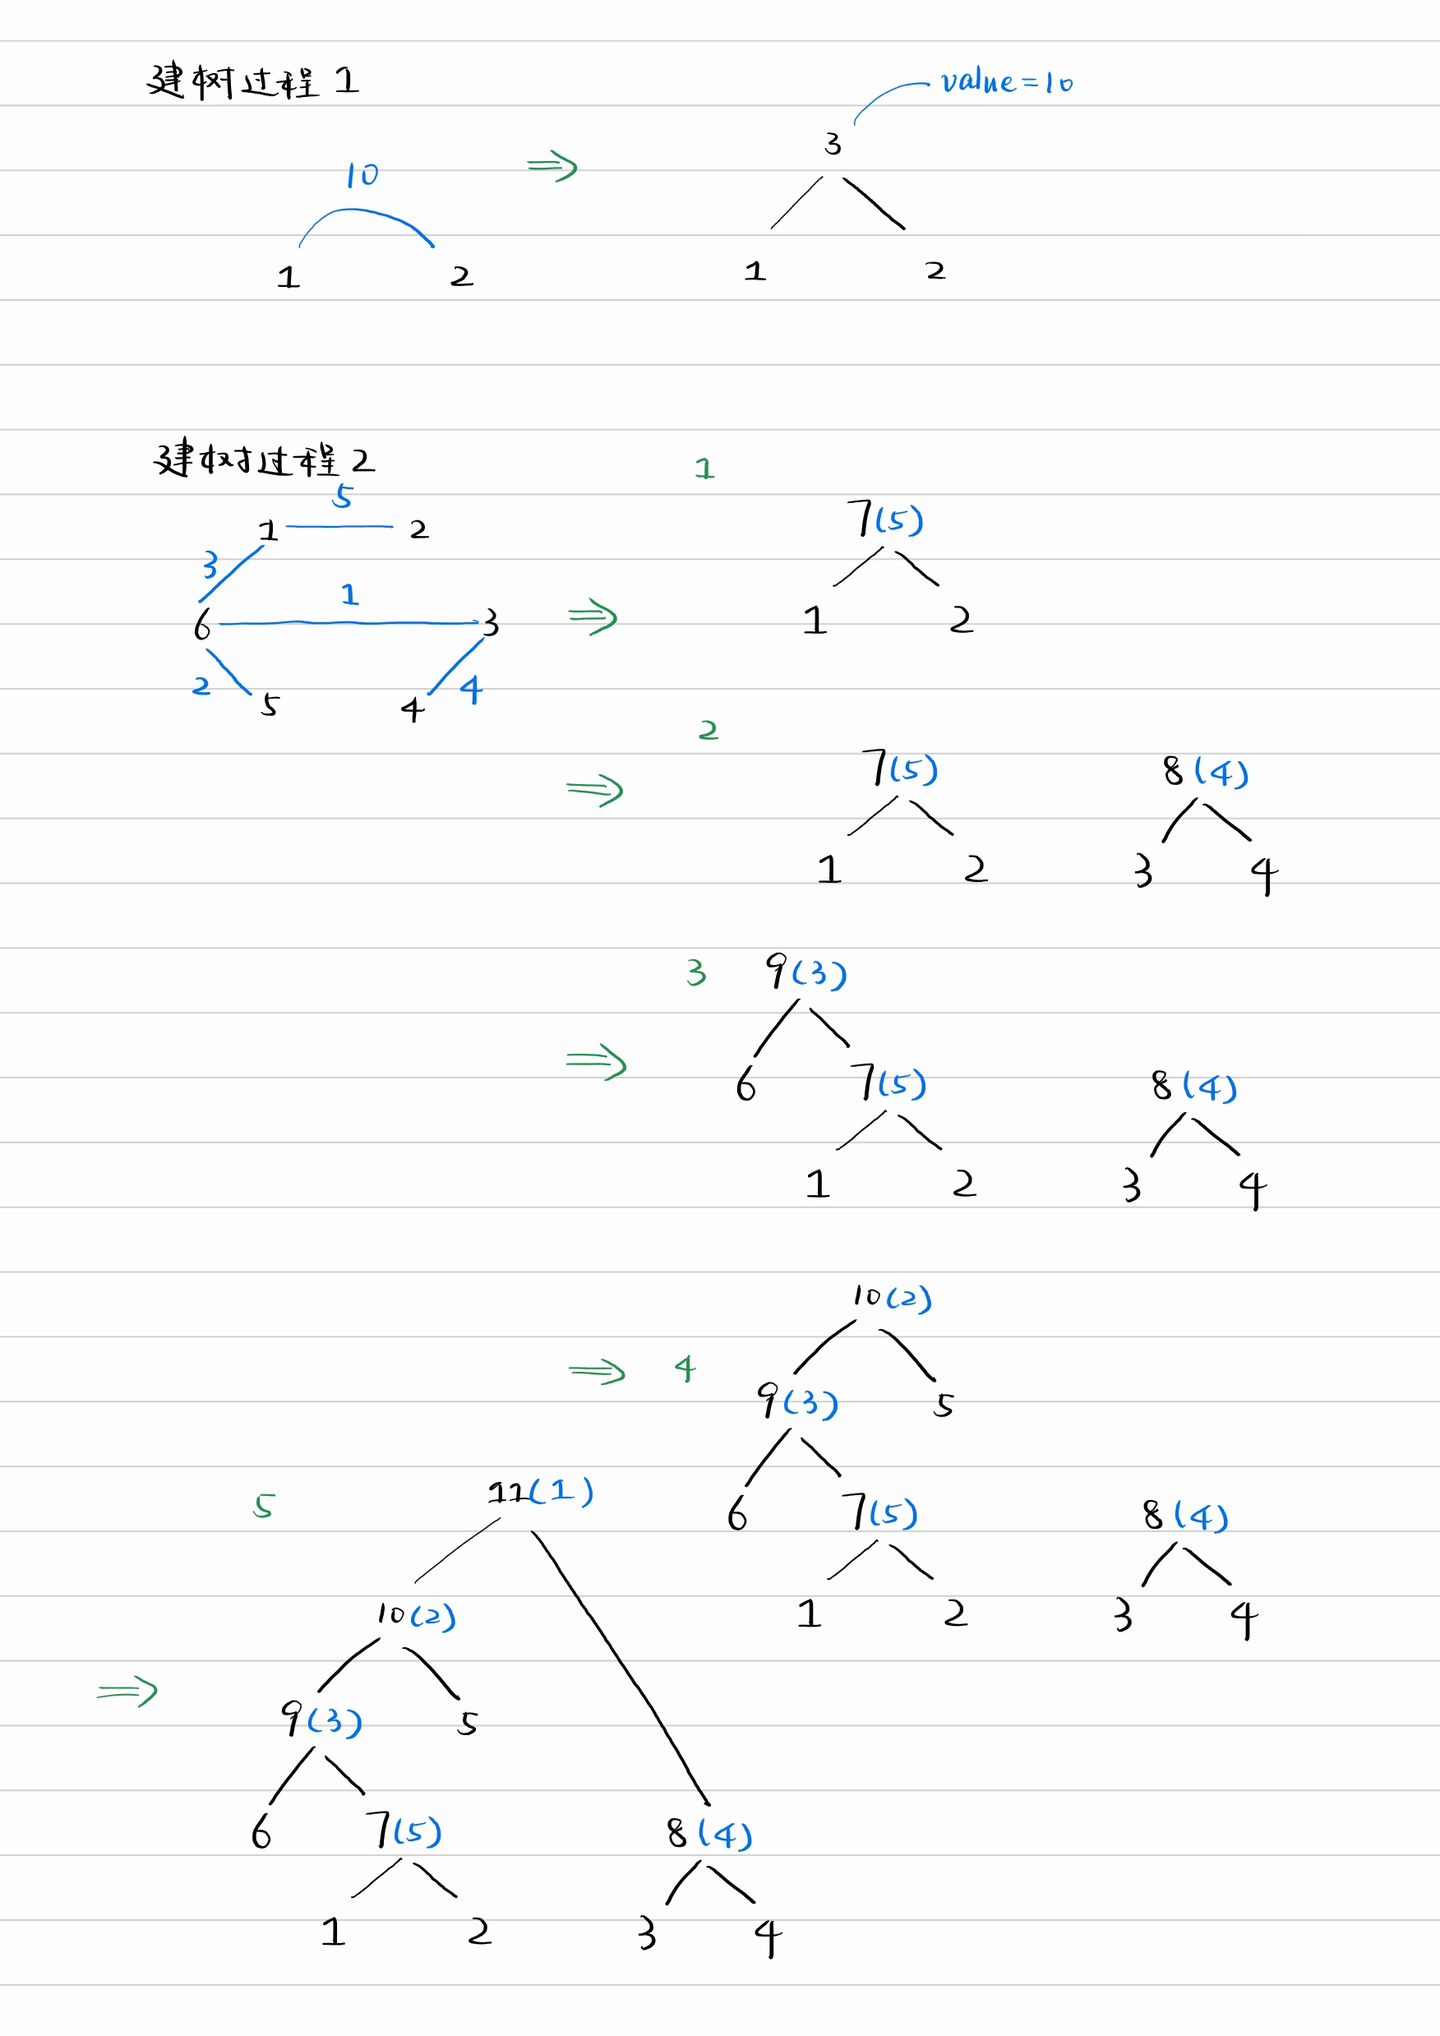
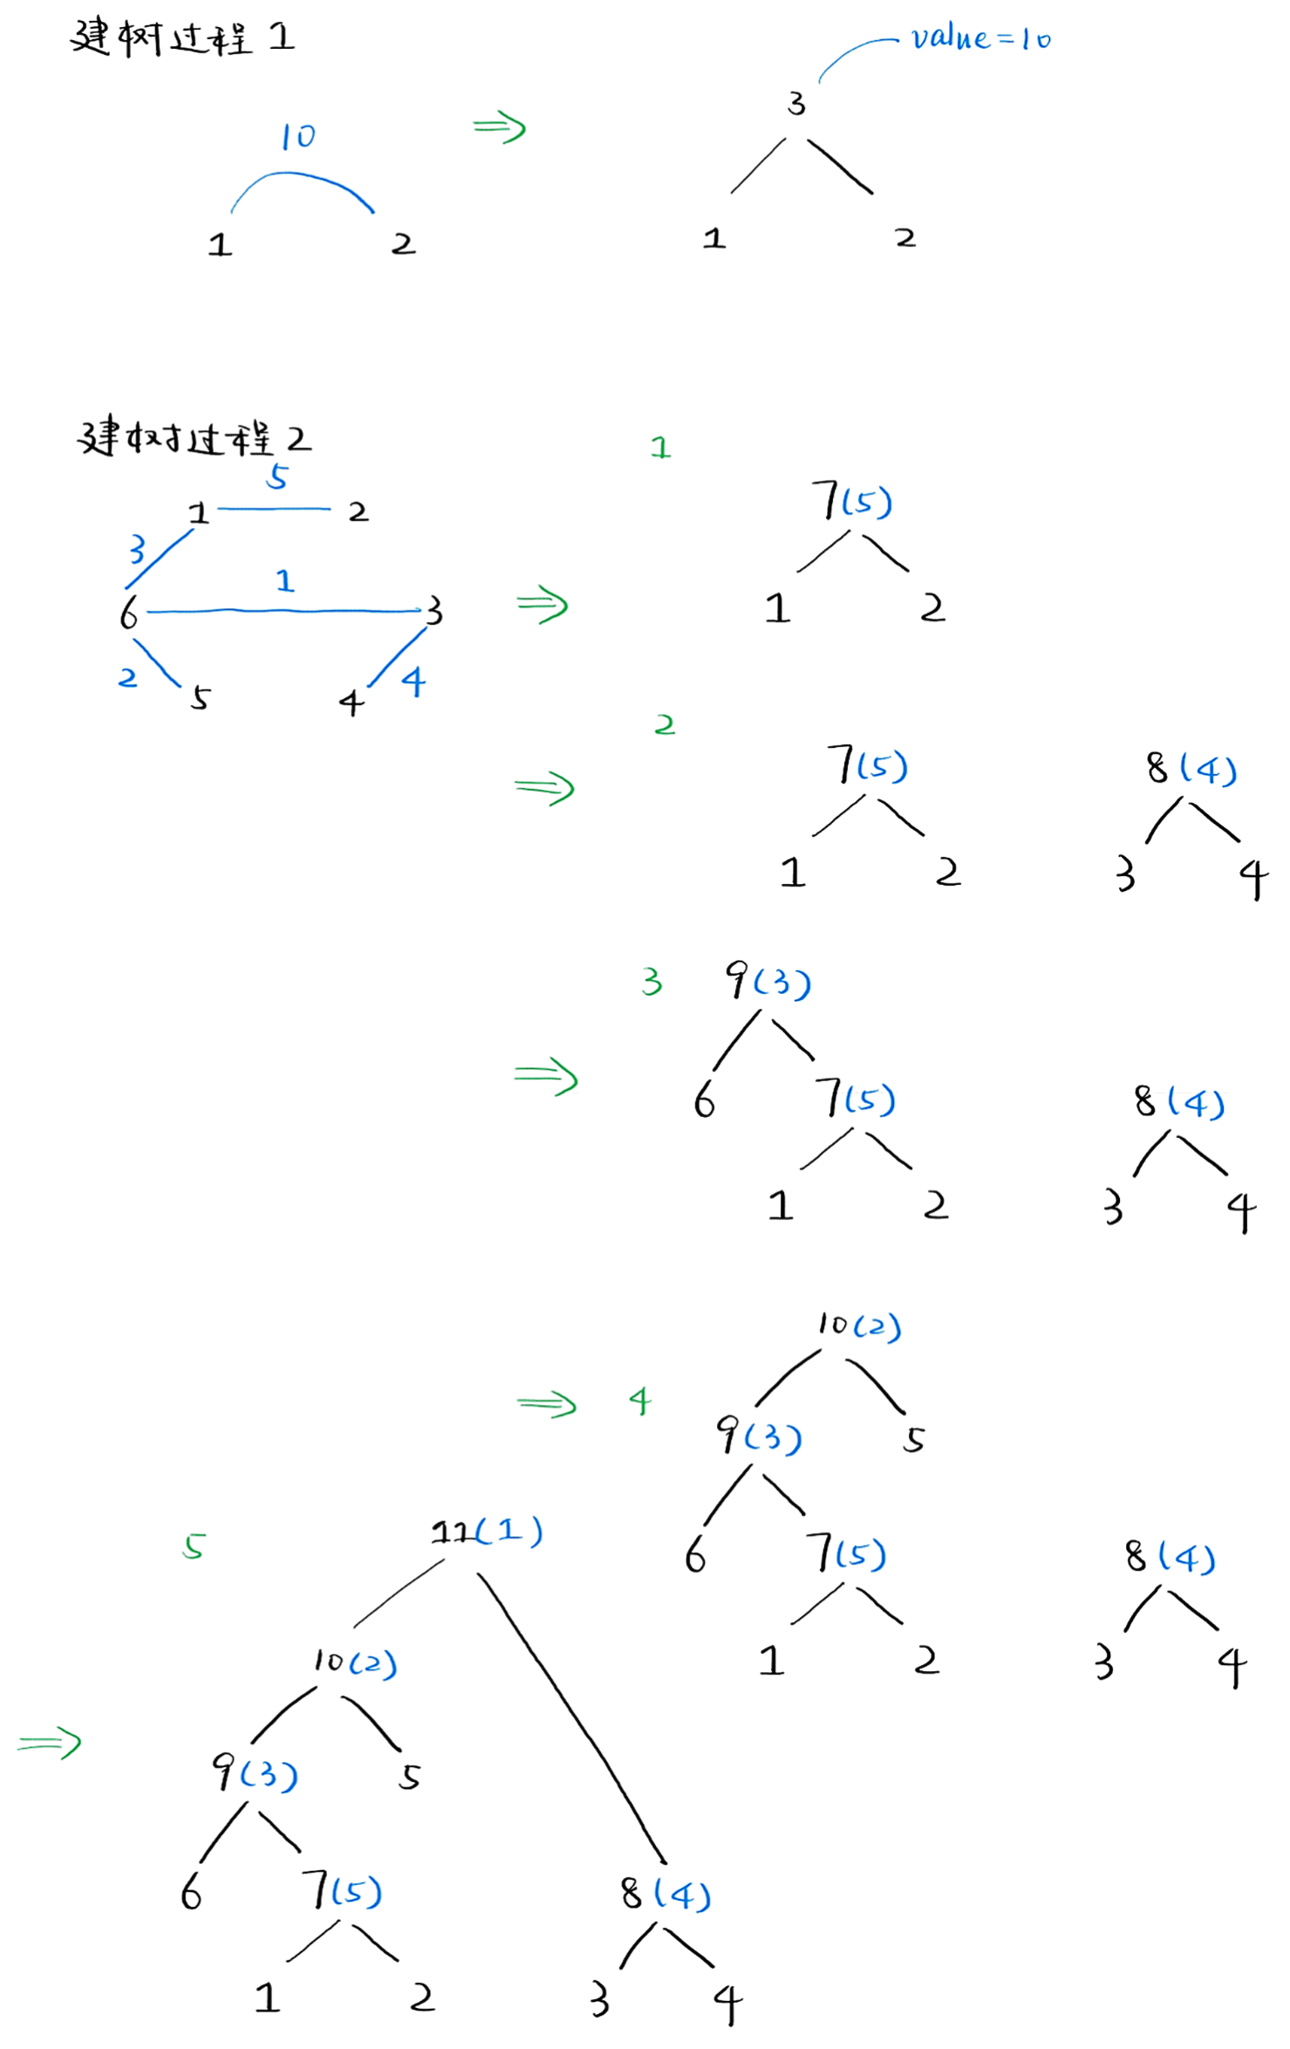
图片优化

diff --git a/算法相关/算法学习笔记/Kruskal重构树 学习笔记.md b/算法相关/算法学习笔记/Kruskal重构树 学习笔记.md
@@ -12,15 +12,15 @@
 
 例如，对于下面这个无向图：
 
-![&revert](.\images\01.png)
+![&small](./images/01.png)
 
 它的最小生成树的 Kruskal 重构树如下：
 
-![&revert](.\images\02.png)
+![&medium](./images/02.png)
 
 再附一个网上找到的解构 Kruskal 重构树 建树过程的图片（左边是图，右边是 Kruskal 重构树）：
 
-![&revert](./images/03.png)
+![](./images/03.png)
 
 ## 重构树性质
 
